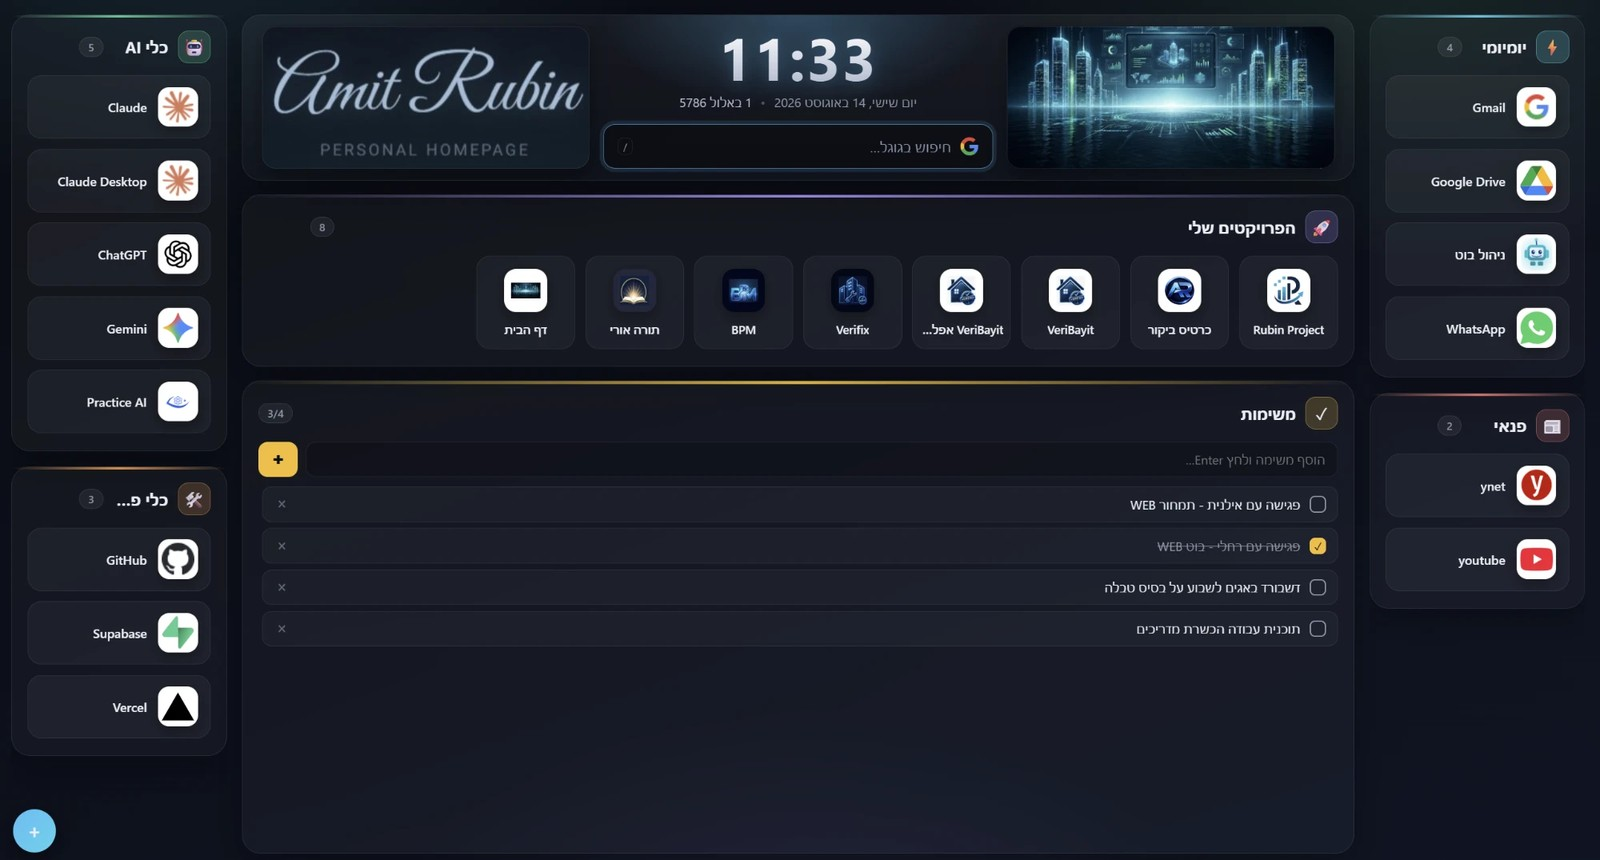
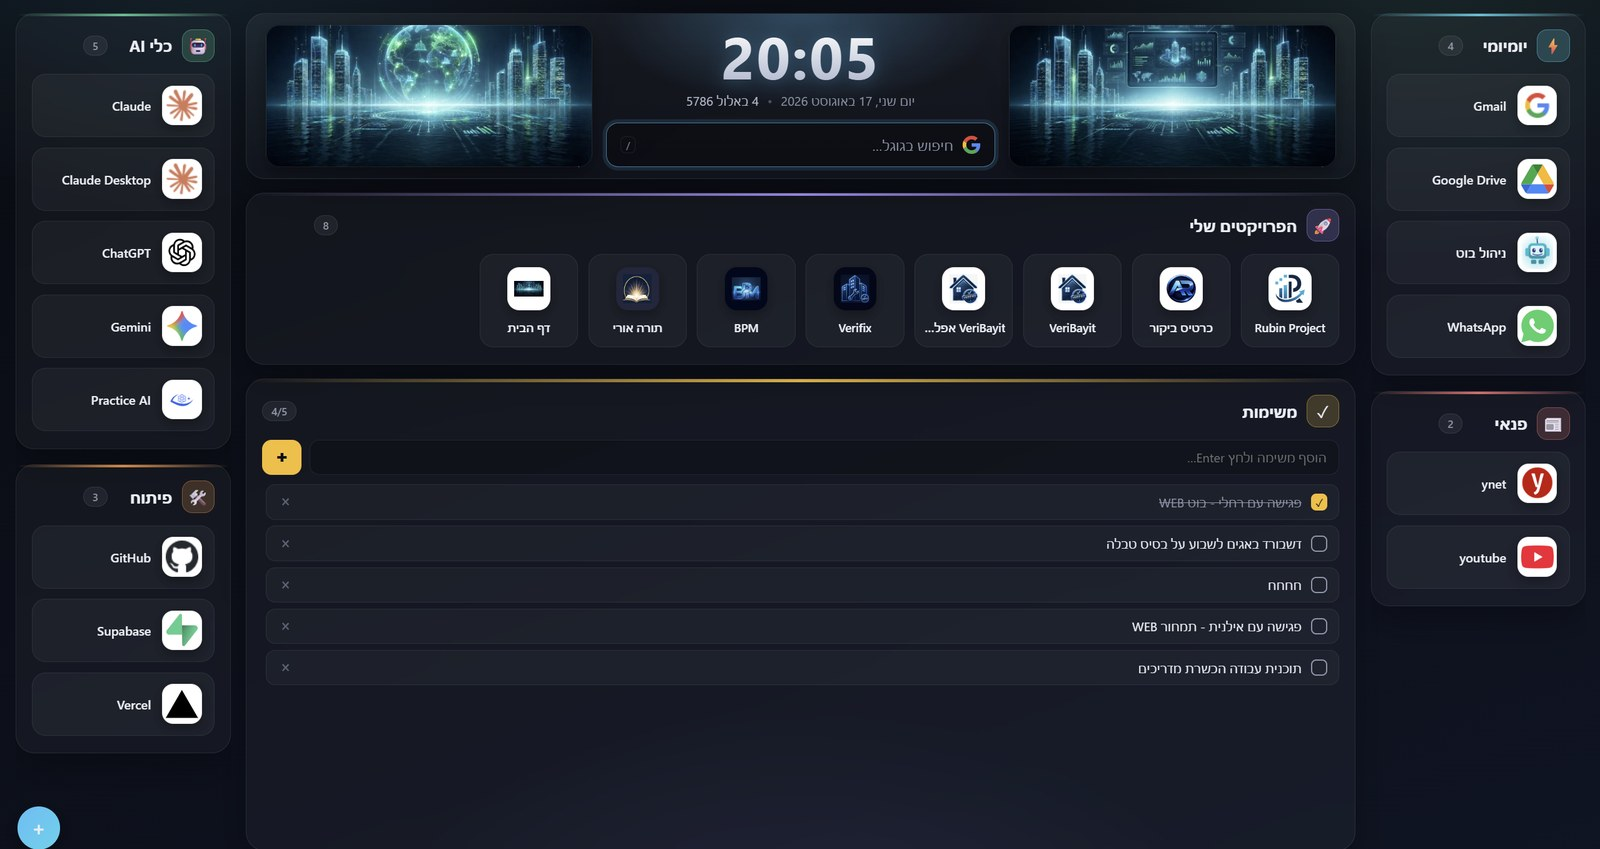
Homepage product: new MYHOME screenshot, feature-overview graphic, richer OG
- Replaced the main showcase with the updated real screenshot (MYHOME)
- Added a "מבט על" section with the annotated feature graphic (2.png)
- Swapped the social/OG image for the marketing graphic (1.png), ?v=3

diff --git a/projects/homepage/index.html b/projects/homepage/index.html
@@ -10,12 +10,12 @@
 <meta property="og:site_name" content="Rubin Project">
 <meta property="og:title" content="דף הבית האישי שלך — כל האינטרנט במסך אחד">
 <meta property="og:description" content="מרכז שליטה אישי לדפדפן: האתרים שלך בקטגוריות, שעון, חיפוש, משימות — מותאם אליך ופרטי לחלוטין.">
-<meta property="og:image" content="https://www.rubinproject.com/projects/img/homepage-og.jpg">
+<meta property="og:image" content="https://www.rubinproject.com/projects/img/homepage-og.jpg?v=3">
 <meta property="og:url" content="https://www.rubinproject.com/projects/homepage/">
 <meta property="og:type" content="website">
 <meta property="og:locale" content="he_IL">
 <meta name="twitter:card" content="summary_large_image">
-<meta name="twitter:image" content="https://www.rubinproject.com/projects/img/homepage-og.jpg">
+<meta name="twitter:image" content="https://www.rubinproject.com/projects/img/homepage-og.jpg?v=3">
 <meta name="theme-color" content="#0b0f1c">
 <link rel="preconnect" href="https://fonts.googleapis.com">
 <link rel="preconnect" href="https://fonts.gstatic.com" crossorigin>
@@ -82,6 +82,9 @@ header.nav{position:sticky;top:0;z-index:100;background:rgba(11,15,28,0.9);backd
 .shot-body.empty img{display:none}
 .shot-body.empty::after{content:"🖼  צילום מסך יתווסף כאן";font-size:16px;font-weight:800;color:var(--muted)}
 .shot-cap{text-align:center;color:var(--muted);font-size:13.5px;margin-top:14px}
+/* OVERVIEW graphic */
+.overview{max-width:1060px;margin:0 auto;border-radius:22px;overflow:hidden;border:1px solid var(--border);box-shadow:0 30px 70px rgba(0,0,0,.55)}
+.overview img{width:100%;display:block}
 
 /* SECTIONS */
 section{padding:46px 0}
@@ -197,7 +200,7 @@ footer{border-top:1px solid var(--border);padding:40px 0;background:#080b16}
   <div class="wrap">
     <div class="shot">
       <div class="shot-bar"><i class="r"></i><i class="y"></i><i class="g"></i><span>הדף האישי שלי — כרטיסייה חדשה</span></div>
-      <div class="shot-body"><img src="../img/home-hero.jpg" alt="דף הבית האישי — שעון, חיפוש, הפרויקטים שלך והמשימות" onerror="this.parentNode.classList.add('empty')"></div>
+      <div class="shot-body"><img src="../img/home-hero.jpg?v=2" alt="דף הבית האישי — שעון, חיפוש, הפרויקטים שלך והמשימות" onerror="this.parentNode.classList.add('empty')"></div>
     </div>
     <div class="shot-cap">מרכז שליטה אחד — שעון, חיפוש, וכל האתרים שלך מסודרים בקטגוריות עם הלוגו האמיתי</div>
   </div>
@@ -218,6 +221,19 @@ footer{border-top:1px solid var(--border);padding:40px 0;background:#080b16}
       <div class="feat"><div class="ic">🖼</div><h4>מסגרות תמונה אישיות</h4><p>משפחה, לוגו העסק או נוף — התמונות שלך, על הדף שלך.</p></div>
       <div class="feat"><div class="ic">✅</div><h4>רשימת משימות</h4><p>מטלות היום ישר על הדף — בלי אפליקציה נוספת.</p></div>
       <div class="feat"><div class="ic">🌗</div><h4>מצב כהה / בהיר</h4><p>בוחרים את התצוגה שנוחה לעיניים, בכל שעה.</p></div>
+    </div>
+  </div>
+</section>
+
+<!-- OVERVIEW GRAPHIC -->
+<section>
+  <div class="wrap">
+    <div class="sec-head">
+      <span class="eyebrow">🖼 מבט על</span>
+      <h2>כל היכולות — במסך אחד</h2>
+    </div>
+    <div class="overview">
+      <img src="../img/home-overview.jpg" alt="דף הבית האישי — שעון ותאריך, חיפוש חכם, אתרים בקטגוריות, משימות, תמונות אישיות ומצב כהה/בהיר" loading="lazy">
     </div>
   </div>
 </section>
